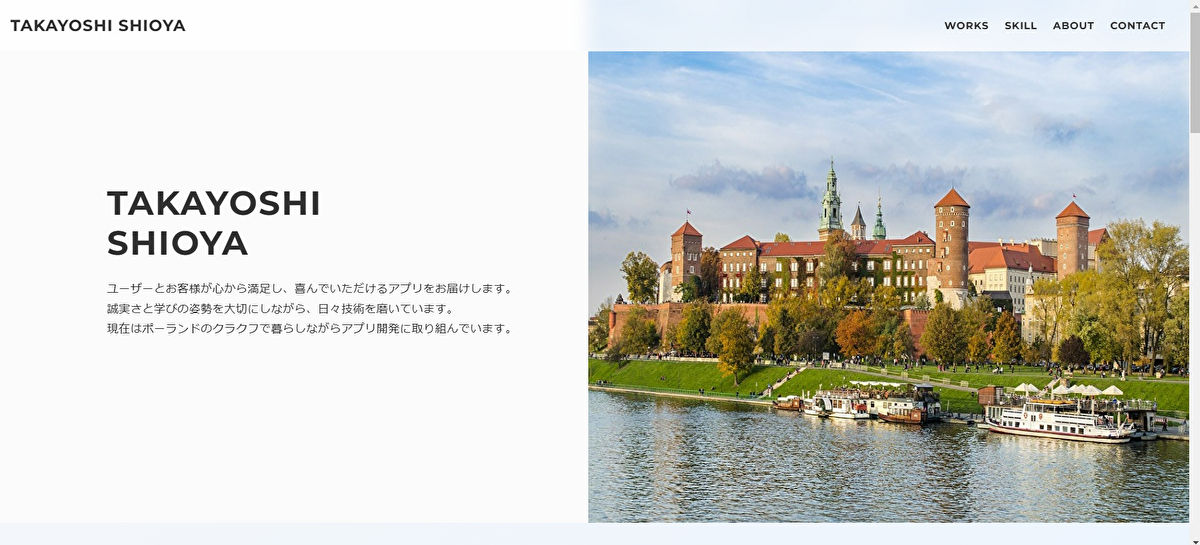
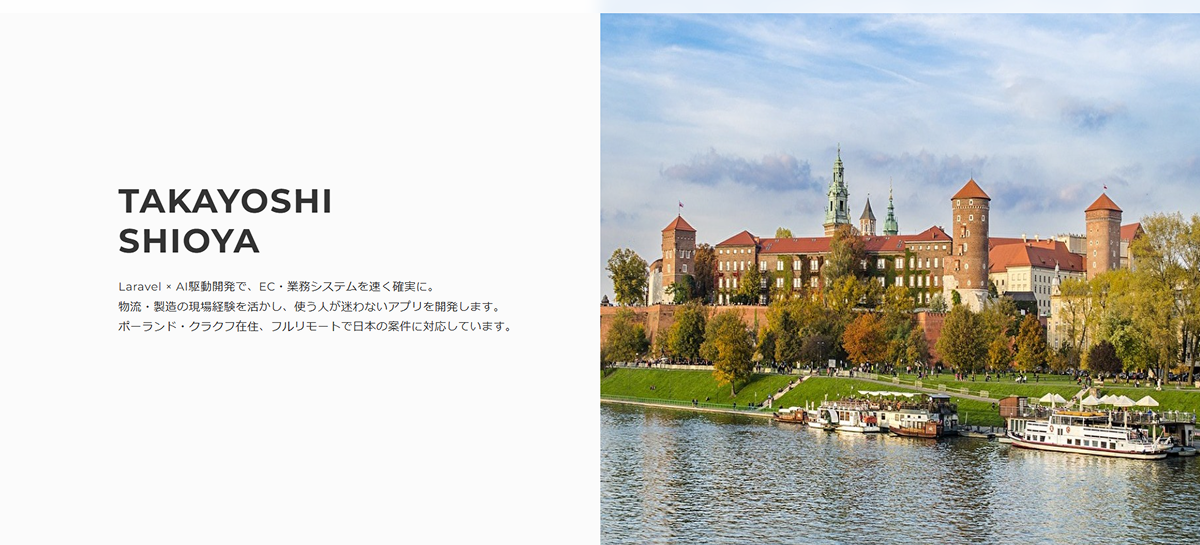
画像差し替え・注釈変更

diff --git a/index.html b/index.html
@@ -65,7 +65,7 @@
             <a class="works-item" href="works/lessonPassport.html">
               <div class="works-img works-img__wrapper">
                 <img src="img/works_image/lesson-passport-small.png" alt="lesson-passport-sample-image" />
-                <p class="works-img__sample-text">sample image</p>
+                <p class="works-img__sample-text">※守秘義務のため、イメージ画像を掲載しています。</p>
               </div>
               <p class="works-name">塾連絡アプリの開発</p>
               <p class="works-info">2026.5 | 実務 | フロント・バックエンド実装</p>
@@ -78,7 +78,7 @@
             <a class="works-item" href="works/mazidesign.html">
               <div class="works-img works-img__wrapper">
                 <img src="img/works_image/mazidesign-small.png" alt="mazidesign-sample-image" />
-                <p class="works-img__sample-text">sample image</p>
+                <p class="works-img__sample-text">※守秘義務のため、イメージ画像を掲載しています。</p>
               </div>
               <p class="works-name">デザインスクールのLPサイトリニューアル</p>
               <p class="works-info">2025.5 | 実務 | フロントエンド実装</p>
@@ -86,7 +86,7 @@
             <a class="works-item" href="works/qa.html">
               <div class="works-img works-img__wrapper">
                 <img src="img/works_image/qa-small.png" alt="qa-sample-image" />
-                <p class="works-img__sample-text">sample image</p>
+                <p class="works-img__sample-text">※守秘義務のため、イメージ画像を掲載しています。</p>
               </div>
               <p class="works-name">定性調査webサービスの開発</p>
               <p class="works-info">2025.4 | 実務 | フロント・バックエンド実装</p>
@@ -99,7 +99,7 @@
             <a class="works-item" href="works/leaseback.html">
               <div class="works-img works-img__wrapper">
                 <img src="img/works_image/leaseback-small.png" alt="leaseback-sample-image" />
-                <p class="works-img__sample-text">sample image</p>
+                <p class="works-img__sample-text">※守秘義務のため、イメージ画像を掲載しています。</p>
               </div>
               <p class="works-name">不動産査定フォームの開発</p>
               <p class="works-info">2024.12 | 実務 | フロント・バックエンド実装</p>

diff --git a/works/leaseback.html b/works/leaseback.html
@@ -7,7 +7,7 @@
   <meta property="og:title" content="不動産査定フォームの開発 | TAKAYOSHI SHIOYAの開発実績">
   <meta property="og:url" content="https://t-shioya.com/works/leaseback.html">
   <meta property="og:description" content="初めて仕事として開発したアプリケーションです。約2週間という短い開発期間でしたが、要件を満たしたアプリケーションを無事納品しました。限られた時間の中で効率的に開発を進め、成果を上げることができました。">
-  <meta property="og:image" content="https://t-shioya.com/img/leaseback-sample.png">
+  <meta property="og:image" content="https://t-shioya.com/img/leaseback-no-text.png">
   <meta name="description" content="初めて仕事として開発したアプリケーションです。約2週間という短い開発期間でしたが、要件を満たしたアプリケーションを無事納品しました。限られた時間の中で効率的に開発を進め、成果を上げることができました。" />
   <title>TAKAYOSHI SHIOYA ポートフォリオ</title>
   <link rel="preconnect" href="https://fonts.gstatic.com">
@@ -48,7 +48,7 @@
           <h2 class="article-title">不動産査定フォームの開発</h2>
           <div class="article-img sample-wrapper">
             <img src="../img/works_image/leaseback-no-text.png" alt="sample-image">
-            <p class="sample-wrapper__text">※守秘義務のため、実際の画面ではなくイメージ画像を掲載しています。</p>
+            <p class="sample-wrapper__text">※守秘義務のため、イメージ画像を掲載しています。</p>
           </div>
           <div class="article-body">
             <h3 class="article-info-title">区分</h3>

diff --git a/works/lessonPassport.html b/works/lessonPassport.html
@@ -7,7 +7,7 @@
   <meta property="og:title" content="塾連絡アプリの開発 | TAKAYOSHI SHIOYAの開発実績">
   <meta property="og:url" content="https://t-shioya.com/works/lessonPassport.html">
   <meta property="og:description" content="プロジェクトには途中から参画しましたが、担当タスクを着実に遂行し、チームに貢献することができました。主に管理画面の一覧・詳細・新規作成に関するフロントエンド・バックエンド実装を担当しました。">
-  <meta property="og:image" content="https://t-shioya.com/img/lesson-passport.png">
+  <meta property="og:image" content="https://t-shioya.com/img/lesson-passport-no-text.png">
   <meta name="description" content="プロジェクトには途中から参画しましたが、担当タスクを着実に遂行し、チームに貢献することができました。主に管理画面の一覧・詳細・新規作成に関するフロントエンド・バックエンド実装を担当しました。" />
   <title>TAKAYOSHI SHIOYA ポートフォリオ</title>
   <link rel="preconnect" href="https://fonts.gstatic.com">
@@ -47,7 +47,7 @@
           <h2 class="article-title">塾連絡アプリの開発</h2>
           <div class="article-img sample-wrapper">
             <img src="../img/works_image/lesson-passport-no-text.png" alt="sample-image">
-            <p class="sample-wrapper__text">※守秘義務のため、実際の画面ではなくイメージ画像を掲載しています。</p>
+            <p class="sample-wrapper__text">※守秘義務のため、イメージ画像を掲載しています。</p>
           </div>
           <div class="article-body">
             <h3 class="article-info-title">区分</h3>

diff --git a/works/qa.html b/works/qa.html
@@ -7,7 +7,7 @@
   <meta property="og:title" content="定性調査webサービスの開発 | TAKAYOSHI SHIOYAの開発実績">
   <meta property="og:url" content="https://t-shioya.com/works/qa.html">
   <meta property="og:description" content="プロジェクトには途中から参画しましたが、担当タスクを着実に遂行し、チームに貢献することができました。PMやチームメンバーからも、実務に対する姿勢や成果について高く評価していただきました。">
-  <meta property="og:image" content="https://t-shioya.com/img/qa-sample.png">
+  <meta property="og:image" content="https://t-shioya.com/img/qa-no-text.png">
   <meta name="description" content="プロジェクトには途中から参画しましたが、担当タスクを着実に遂行し、チームに貢献することができました。PMやチームメンバーからも、実務に対する姿勢や成果について高く評価していただきました。" />
   <title>TAKAYOSHI SHIOYA ポートフォリオ</title>
   <link rel="preconnect" href="https://fonts.gstatic.com">
@@ -48,7 +48,7 @@
           <h2 class="article-title">定性調査webサービスの開発</h2>
           <div class="article-img sample-wrapper">
             <img src="../img/works_image/qa-no-text.png" alt="sample-image">
-            <p class="sample-wrapper__text">※守秘義務のため、実際の画面ではなくイメージ画像を掲載しています。</p>
+            <p class="sample-wrapper__text">※守秘義務のため、イメージ画像を掲載しています。</p>
           </div>
           <div class="article-body">
             <h3 class="article-info-title">区分</h3>

diff --git a/works/mazidesign.html b/works/mazidesign.html
@@ -7,7 +7,7 @@
   <meta property="og:title" content="デザインスクールのLPサイトリニューアル | TAKAYOSHI SHIOYAの開発実績">
   <meta property="og:url" content="https://t-shioya.com/works/mazidesign.html">
   <meta property="og:description" content="LPサイトを画像中心の構成からHTML/CSSベースに刷新。スケジュール調整で納期に間に合わせました。">
-  <meta property="og:image" content="https://t-shioya.com/img/mazidesign-sample.png">
+  <meta property="og:image" content="https://t-shioya.com/img/mazidesign-no-text.png">
   <meta name="description" content="LPサイトを画像中心の構成からHTML/CSSベースに刷新。スケジュール調整で納期に間に合わせました。" />
   <title>TAKAYOSHI SHIOYA ポートフォリオ</title>
   <link rel="preconnect" href="https://fonts.gstatic.com">
@@ -48,7 +48,7 @@
           <h2 class="article-title long-title">デザインスクールのLPサイト<span class="long-title__span">リニューアル</span></h2>
           <div class="article-img sample-wrapper">
             <img src="../img/works_image/mazidesign-no-text.png" alt="sample-image">
-            <p class="sample-wrapper__text">※守秘義務のため、実際の画面ではなくイメージ画像を掲載しています。</p>
+            <p class="sample-wrapper__text">※守秘義務のため、イメージ画像を掲載しています。</p>
           </div>
           <div class="article-body">
             <h3 class="article-info-title">区分</h3>

diff --git a/css/style.css b/css/style.css
@@ -185,10 +185,6 @@ img {
   position: relative;
 }
 
-.works-img__wrapper img {
-  opacity: .3;
-}
-
 .works-name {
   font-size: 12px;
   font-weight: bold;
@@ -200,12 +196,18 @@ img {
 }
 
 .works-img__sample-text {
-  font-size: 24px;
+  font-size: 10px;
+  line-height: 1.4;
+  color: #555;
+  text-align: right;
+  background-color: rgba(255, 255, 255, .7);
+  padding: 2px 6px;
   position: absolute;
-  top: 50%;
-  left: 50%;
-  transform: translate(-50%, -50%);
-  text-wrap: nowrap;
+  right: 4px;
+  bottom: 4px;
+  max-width: calc(100% - 8px);
+  word-break: keep-all;
+  overflow-wrap: anywhere;
 }
 
 /*--------------------------------
@@ -646,7 +648,8 @@ img {
   }
 
   .sample-wrapper__text {
-    font-size: 20px;
+    font-size: 10px;
+    text-align: left;
   }
 }
 
@@ -671,5 +674,9 @@ img {
 
   .header-logo {
     margin-bottom: 8px;
+  }
+
+  .works-img__sample-text {
+    font-size: 9px;
   }
 }
